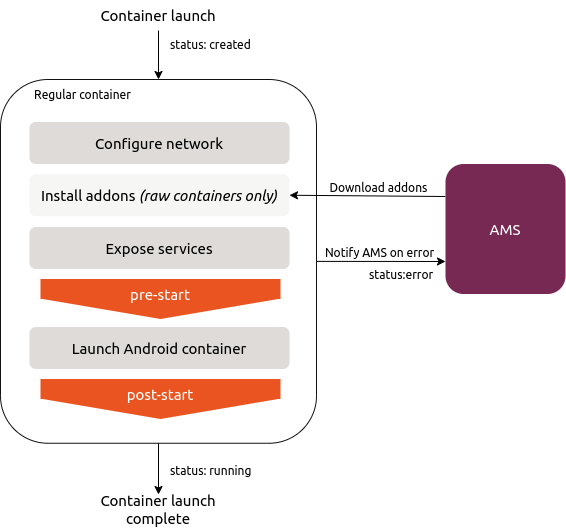
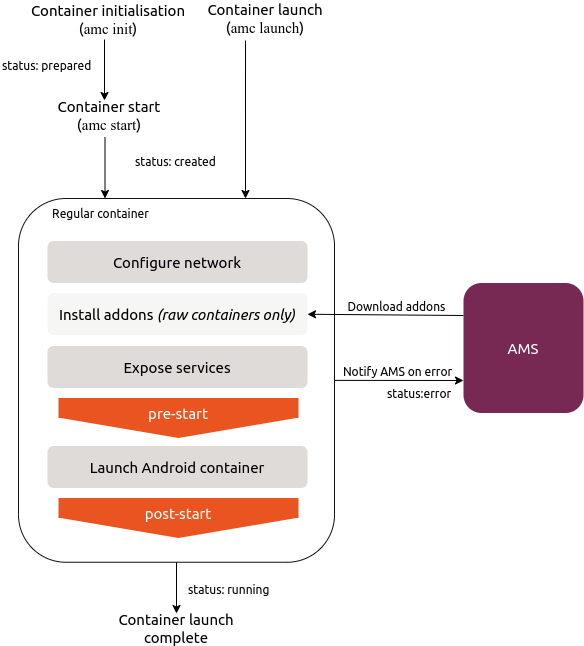
Document the container start/stop commands

diff --git a/exp/containers.md b/exp/containers.md
@@ -26,28 +26,35 @@ All containers in Anbox Cloud are ephemeral, which means that as soon as a conta
 
 ## Container life cycle
 
-When you create a container by launching an application or an image, it executes the following steps in order:
+When you [create a container](https://discourse.ubuntu.com/t/launch-a-container/24327) by either launching or initialising an application or an image, AMS schedules the container on a LXD node. The container then executes the following steps in order:
 
 1. Configure the network interface and gateway.
-2. Only raw containers: Install addons that are specified with `--addons`.
-3. Expose services that are specified with `--service` or through the application manifest.
-4. Execute the `pre-start` hook provided by the installed addons.
-5. Launch the Android container.
-6. Execute the `post-start` hook provided by the installed addons.
+1. Only raw containers: Install addons that are specified with `--addons`.
+1. Expose services that are specified with `--service` or through the application manifest.
+1. Execute the `pre-start` hook provided by the installed addons.
+1. Launch the Android container.
+1. Execute the `post-start` hook provided by the installed addons.
 
-![Container start|566x528](https://assets.ubuntu.com/v1/0f386949-container_start.png)
+![Container start|584x646](TBD)
 
 The whole launch process is successful only if all of the above steps succeed.
 
 If anything goes wrong during the container launch process, the status of the container changes to the `error` status. You can [view the available logs](https://discourse.ubuntu.com/t/view-the-container-logs/24329) from the container for diagnosing the root cause of the problem.
 
-When a container is stopped, either because you deleted it or because an error occurred, it executes the following steps in order:
+Containers can be stopped because of the following scenarios:
+
+- You stopped it.
+- You deleted it.
+- An error occurred.
+
+When a container is stopped, it executes the following steps in order:
 
 1. Stop the Android container.
 2. Execute the `post-stop` hook provided by the installed addons.
 3. Shut down the container.
 
-![Container stop|551x385](https://assets.ubuntu.com/v1/821cbeae-container_stop.png)
+Beyond that, the container will be removed from AMS either because you deleted it or because an error occurred during its runtime.
+![Container stop|575x521](TBD)
 
 ### Possible container status
 
@@ -74,11 +81,13 @@ To check whether development mode is enabled, run `amc show <container_ID>` or l
 
 ## Managing containers
 
- * [How to launch a container](https://discourse.ubuntu.com/t/launch-a-container/24327)
+ * [How to create a container](https://discourse.ubuntu.com/t/launch-a-container/24327)
+ * [How to start a container](TBD)
  * [How to wait for a container](https://discourse.ubuntu.com/t/wait-for-a-container/24330)
  * [How to access a container](https://discourse.ubuntu.com/t/access-containers-remotely/17772)
  * [How to expose services on a container](https://discourse.ubuntu.com/t/expose-services-on-a-container/24326)
  * [How to view the container logs](https://discourse.ubuntu.com/t/view-the-container-logs/24329)
+ * [How to stop a container](TBD)
  * [How to delete a container](https://discourse.ubuntu.com/t/delete-a-container/24325)
  * [How to list containers](https://discourse.ubuntu.com/t/list-containers/24328)
  * [How to configure geographic location](https://discourse.ubuntu.com/t/usecase-container-configuration/17782)

diff --git a/index.md b/index.md
@@ -90,11 +90,13 @@ Thinking about using Anbox Cloud for your next project? [Get in touch!](https://
 | 3 | howto/port/configure-watchdog | [Configure the watchdog](https://discourse.ubuntu.com/t/configure-the-watchdog/26057)|
 | 3 | howto/port/install-system-app | [Install APK as a system app](https://discourse.ubuntu.com/t/install-an-apk-as-a-system-app/27086)|
 | 2 | howto/container/landing | [Work with containers](https://discourse.ubuntu.com/t/work-with-containers/24335) |
-| 3 | howto/container/launch | [Launch a container](https://discourse.ubuntu.com/t/launch-a-container/24327)|
+| 3 | howto/container/create | [Create a container](https://discourse.ubuntu.com/t/launch-a-container/24327)|
+| 3 | howto/container/start | [Start a container](TBD)|
 | 3 | howto/container/wait | [Wait for a container](https://discourse.ubuntu.com/t/wait-for-a-container/24330)|
 | 3 | howto/container/access | [Access a container](https://discourse.ubuntu.com/t/container-access/17772)|
 | 3 | howto/container/expose-services | [Expose services](https://discourse.ubuntu.com/t/expose-services-on-a-container/24326)|
 | 3 | howto/container/logs | [View the container logs](https://discourse.ubuntu.com/t/view-the-container-logs/24329)|
+| 3 | howto/container/stop | [Stop a container](TBD)|
 | 3 | howto/container/delete | [Delete a container](https://discourse.ubuntu.com/t/delete-a-container/24325)|
 | 3 | howto/container/list | [List containers](https://discourse.ubuntu.com/t/list-containers/24328)|
 | 3 | howto/container/geographic-location | [Configure geographic location](https://discourse.ubuntu.com/t/usecase-container-configuration/17782)|
@@ -232,4 +234,5 @@ Thinking about using Anbox Cloud for your next project? [Get in touch!](https://
 | /docs/changelog | /docs/release-notes |
 | /docs/howto/monitor/grafana | /docs/howto/monitor/collect-metrics |
 | /docs/howto/monitor/nagios | /docs/howto/monitor/monitor-status |
+| /docs/howto/container/launch | /docs/howto/container/create |
 [/details]

diff --git a/howto/container/create.md b/howto/container/create.md
@@ -1,6 +1,8 @@
-You can launch a container for a registered application or image (see [Application containers vs. raw containers](https://discourse.ubuntu.com/t/managing-containers/17763#application-vs-raw)), either by using the `amc` tool or through another service over the REST API that the AMS service provides.
+You can either launch a container with `amc launch` or initialise a container with the `amc init` command for a registered application or image (see [Application containers vs. raw containers](https://discourse.ubuntu.com/t/managing-containers/17763#application-vs-raw)), by using the `amc` tool or through another service over the REST API that the AMS service provides. The `amc init` command only creates the instance, while the `amc launch` command creates and starts it.
 
 By default, the container will run headless. See [How to access a container](https://discourse.ubuntu.com/t/container-access/17772) for instructions on how to access it for debugging purposes, and [About application streaming](https://discourse.ubuntu.com/t/streaming-android-applications/17769) for information about the streaming stack.
+
+[note type="information" status="Note"] The following examples use `amc launch`, but you can use `amc init` in the same way.[/note]
 
 <a name="application-containers"></a>
 ## Launch application containers

diff --git a/howto/container/start.md b/howto/container/start.md
@@ -1,0 +1,17 @@
+When a container is either initialised with the `amc init` (see [Create a container](https://anbox-cloud.io/docs/howto/container/launch)) command or stopped with the `amc stop` command (See [Stop a container](TBD)), you must start it explicitly with the `amc start` command:
+
+    amc start <container id>
+
+`<container id>` is the ID of the container that you want to start.
+
+By default, the `amc start` command waits 5 minutes for a container to run before the operation times out. When starting a container, you can specify a custom wait time with the `--timeout` option.
+
+    amc start <container id> --timeout 10m
+
+When the `--no-wait` option is specified, the `amc start` command exits immediately after the container starts and will not wait till it is running.
+
+    amc start <container id> --no-wait
+
+[note type="information" status="Important"]
+Starting a container that has stopped with an error status is is not allowed. Doing so would cause the `amc start` command to fail.
+[/note]

diff --git a/howto/container/stop.md b/howto/container/stop.md
@@ -1,0 +1,9 @@
+A running container can be stopped using the `amc stop` command:
+
+    amc stop <container id>
+
+`<container id>` is the ID of the container that you want to stop.
+
+By default, the `amc stop` command waits 5 minutes for a container to stop before the operation times out. If you want to specify a custom wait time, you can do so by using the `--timeout` option in the `amc stop` command.
+
+    amc stop <container id> --timeout 10m
